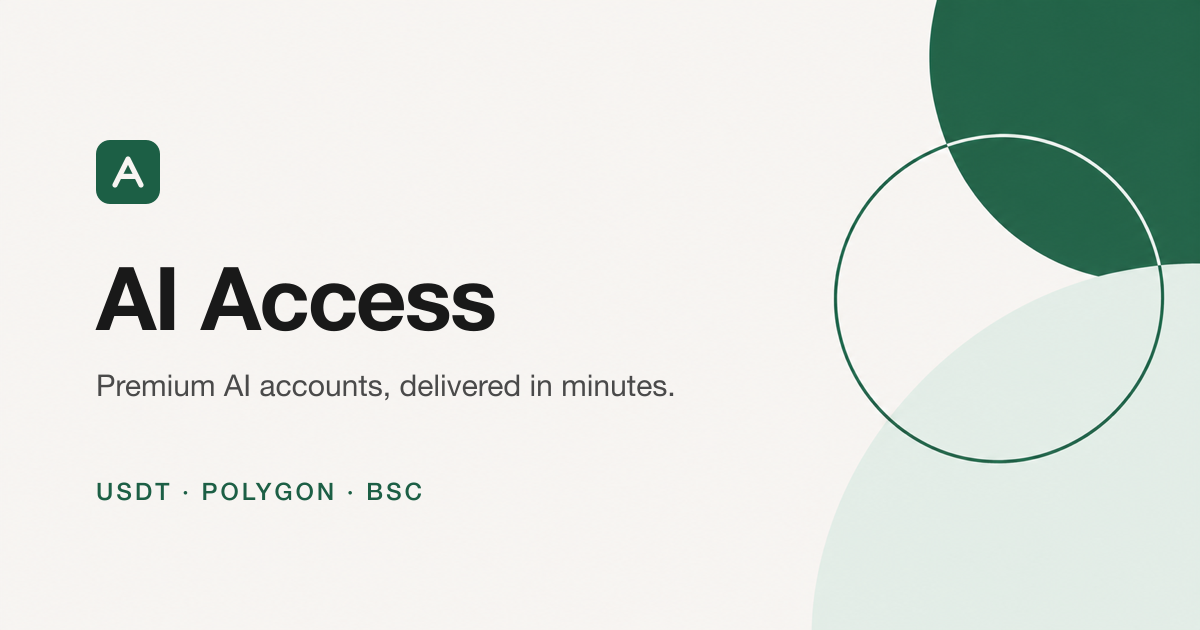
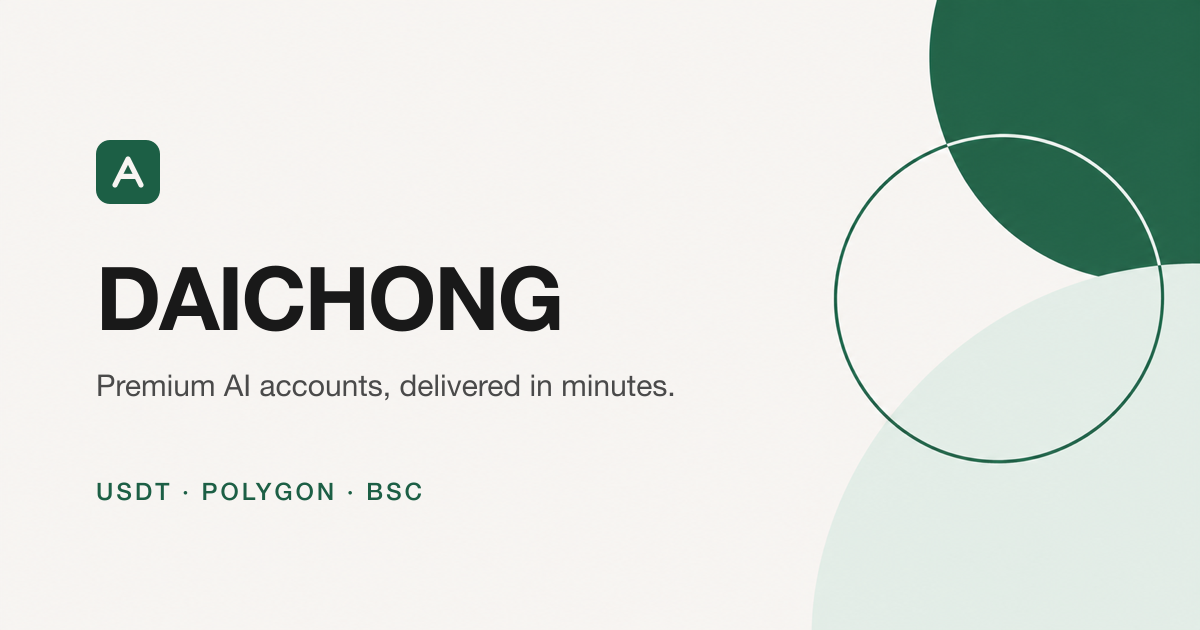
首页产品介绍区 + 品牌定案「代充」+ SEO 方案
- 首页：落地页新增 hero（标题/副题/三个卖点）+ 购买流程三步 + /help 入口，
  仅在无分类/搜索意图时渲染；首页补 WebSite + Organization 结构化数据
- 命名调研与定案：店名「代充」（品类词占位，用户方向），拉丁词标 DAICHONG；
  og-default/apple-touch-icon 按 DAICHONG 重排生成；docs/brand.md 记录
  候选对比、logo 几何与三处消费同步点
- docs/seo.md：技术项盘点（sitemap/robots/canonical/JSON-LD/OG）、
  关键词矩阵、内容策略、Search Console 待办与 noindex 红线

Changed region(s): [[0.0617, 0.4222, 0.4933, 0.5429]]

diff --git a/src/app/page.tsx b/src/app/page.tsx
@@ -138,6 +138,10 @@ export default async function Home({
       ]
     : undefined;
 
+  // 介绍区只在「干净的落地页」出现 —— 带分类/搜索意图的访客要的是货架，
+  // 不是品牌陈述；这也是给 SEO 首页留出独一无二的介绍性内容。
+  const showHero = !activeCategory && !search;
+
   const entries = await listCatalog(context, {
     ...(categoryFilter ? { categoryId: categoryFilter } : {}),
     ...(search ? { search } : {}),
@@ -164,6 +168,45 @@ export default async function Home({
       </div>
 
       <main className="mx-auto max-w-6xl px-4 py-8 sm:px-6 sm:py-10">
+        {showHero && (
+          <section className="mb-10 border-b border-[var(--line)] pb-9">
+            <p className="eyebrow">{config.store.name}</p>
+            <h2 className="mt-3 max-w-2xl text-[26px] font-semibold leading-[1.15] tracking-[-0.02em] sm:text-[34px]">
+              {t.home.heroTitle}
+            </h2>
+            <p className="mt-3 max-w-xl text-[14px] leading-relaxed text-[var(--text-muted)]">
+              {t.home.heroSub}
+            </p>
+            <ul className="mt-5 flex flex-wrap gap-x-6 gap-y-2">
+              {[t.home.heroPoint1, t.home.heroPoint2, t.home.heroPoint3].map((point) => (
+                <li key={point} className="flex items-center gap-2 text-[13px] text-[var(--text-muted)]">
+                  <span aria-hidden className="h-1.5 w-1.5 rounded-full bg-[var(--pop)]" />
+                  {point}
+                </li>
+              ))}
+            </ul>
+
+            <div className="mt-8 grid gap-6 sm:grid-cols-3">
+              {[
+                { n: "01", text: t.home.howStep1 },
+                { n: "02", text: t.home.howStep2 },
+                { n: "03", text: t.home.howStep3 },
+              ].map((step) => (
+                <div key={step.n} className="flex gap-3">
+                  <span className="numeric text-[13px] font-semibold text-[var(--pop)]">{step.n}</span>
+                  <p className="text-[13px] leading-relaxed text-[var(--text-muted)]">{step.text}</p>
+                </div>
+              ))}
+            </div>
+            <p className="mt-6 text-[13px]">
+              <span className="text-[var(--text-muted)]">{t.home.howTitle} · </span>
+              <Link href="/help" className="text-[var(--pop)] underline underline-offset-4">
+                {t.home.howCta}
+              </Link>
+            </p>
+          </section>
+        )}
+
         {!canSell && (
           <div className="mb-8 rounded-[var(--radius-card)] border border-[var(--warn)]/25 bg-[var(--warn-wash)] px-4 py-3 text-[13px] leading-relaxed text-[var(--warn)]">
             <strong className="font-semibold">{t.setup.demoMode}</strong>{" "}
@@ -214,6 +257,30 @@ export default async function Home({
           </div>
         </div>
       </main>
+
+      {showHero && (
+        <script
+          type="application/ld+json"
+          dangerouslySetInnerHTML={{
+            __html: JSON.stringify({
+              "@context": "https://schema.org",
+              "@graph": [
+                {
+                  "@type": "WebSite",
+                  name: config.store.name,
+                  url: config.store.baseUrl,
+                },
+                {
+                  "@type": "Organization",
+                  name: config.store.name,
+                  url: config.store.baseUrl,
+                  logo: config.store.baseUrl ? `${config.store.baseUrl}/icon.svg` : undefined,
+                },
+              ],
+            }),
+          }}
+        />
+      )}
 
       <StoreFooter
         storeName={config.store.name}

diff --git a/src/i18n/dictionary.ts b/src/i18n/dictionary.ts
@@ -27,6 +27,17 @@ export const en = {
       "The catalog syncs every 15 minutes. If it stays empty, check the health endpoint for the per-product reason.",
     noMatch: "No products match your search.",
     itemCount: (count: number) => `${count} ${count === 1 ? "item" : "items"}`,
+    heroTitle: "AI accounts & codes, delivered automatically",
+    heroSub:
+      "Sourced straight from the upstream and shipped the moment your payment confirms — pay in USDT on-chain, or by Alipay / WeChat transfer.",
+    heroPoint1: "Auto delivery — codes land on your order page",
+    heroPoint2: "USDT on Polygon & BSC, plus Alipay / WeChat",
+    heroPoint3: "Upstream-direct pricing, no middleman runaround",
+    howTitle: "How it works",
+    howStep1: "Pick a product and quantity, check out with your email.",
+    howStep2: "Pay with USDT (Polygon / BSC) or by Alipay / WeChat transfer.",
+    howStep3: "Your code appears on the order page; reserved items ship on restock.",
+    howCta: "Full guide",
   },
   product: {
     from: "from",
@@ -228,6 +239,17 @@ export const zh: Dict = {
       "商品目录每 15 分钟自动同步。若同步后仍为空，可在健康检查接口看到每个商品被下架的具体原因。",
     noMatch: "没有匹配的商品",
     itemCount: (count: number) => `${count} 件商品`,
+    heroTitle: "AI 账号与接码代充，付款即自动发货",
+    heroSub:
+      "上游直发、链上确认即到账 —— 支持 USDT（Polygon / BSC）与支付宝 / 微信转账。",
+    heroPoint1: "自动发货：卡密直接出现在订单页",
+    heroPoint2: "USDT 链上 + 支付宝 / 微信双通道",
+    heroPoint3: "上游直供，加价透明",
+    howTitle: "购买流程",
+    howStep1: "选好商品与数量，填邮箱下单。",
+    howStep2: "用 USDT（Polygon / BSC）或支付宝 / 微信转账付款。",
+    howStep3: "卡密出现在订单页；预订商品补货后自动发出。",
+    howCta: "完整帮助",
   },
   product: {
     from: "起",

diff --git a/scripts/generate-brand-assets.ts b/scripts/generate-brand-assets.ts
@@ -57,7 +57,7 @@ async function generateOgCard(): Promise<void> {
                     fill: #1C5F45; }
       </style>
       ${markSvg(96, 140, 64)}
-      <text class="wordmark" x="96" y="330">AI Access</text>
+      <text class="wordmark" x="96" y="330">DAICHONG</text>
       <text class="tagline" x="96" y="396">Premium AI accounts, delivered in minutes.</text>
       <text class="meta" x="96" y="500">USDT · POLYGON · BSC</text>
     </svg>`);

diff --git a/docs/brand.md b/docs/brand.md
@@ -1,0 +1,55 @@
+# 品牌手册：名字与 Logo
+
+> 2026-09-14 定案。本文是命名的调研记录与 logo 的使用规范，改品牌前先读一遍。
+
+## 一、名字：代充（DAICHONG）
+
+### 调研过程
+
+| 候选 | 判断 |
+| --- | --- |
+| **代充 / DAICHONG** ✅ | 用户指定的方向（"daichong 之类的"）；中文买家搜「XX代充」是**品类词**，站名与搜索词重合，SEO 天然占位；直白说明业务（代客充值） |
+| AI Access | 早期占位英文名。问题：与业务（代充）无关联、无中文记忆点、丢掉品类词流量 |
+| 充叮 / 叮充 | 造词可注册性更好，但需要教育市场——冷启动阶段品牌词没人搜，浪费最稀缺的品类词位 |
+| 充电堡 / 充值站 | 偏「游戏点卡」联想，与 AI 账号/接码的客群气质不符 |
+
+**结论**：店名 **代充**，拉丁词标 **DAICHONG**（og 卡/域名/大小写不敏感场景用）。
+
+### 用法
+
+- 店铺展示名（页头/页脚/元数据）：`代充` —— 在 `daichong.config.yaml` 的 `store.name`
+- 拉丁词标（og 卡、纯 ASCII 场景）：`DAICHONG`，全大写，字距正常
+- 一句话介绍（英）：AI accounts & codes, delivered automatically
+- 一句话介绍（中）：AI 账号与接码代充，付款即自动发货
+
+## 二、Logo：闸门 A（Gate A）
+
+### 几何
+
+32×32 viewBox，圆角矩形（rx=7）深绿底，其上两条描边构成一个**开口的 A 形闸门**：
+
+```
+┌──────────────┐
+│      /\      │   底：var(--pop)    #1C5F45（暗黑 #6FC79E）
+│     /  \     │   线：var(--bg)     #F7F5F2（暗黑 #121110）
+│    /    \    │   线宽 2.6，圆角端点
+│   ──────     │
+└──────────────┘
+```
+
+三处消费，改图形必须三处同步：
+
+1. `src/components/brand-mark.tsx` —— 页头内联（吃 currentColor/行高）
+2. `src/app/icon.svg` —— favicon
+3. `scripts/generate-brand-assets.ts` —— og 卡与 apple-touch-icon 的位图重绘
+
+### 语义
+
+A = AI；闸门 = 「通了」——付款即开闸发货。尖顶朝上只有一个方向，没有装饰性
+渐变与阴影，暗黑模式下底/线自动互换（token 驱动）。
+
+### 规则
+
+- 最小尺寸 18px（页头），小于 16px 环境直接省略文字只留 mark
+- 底色永远用 `--pop` token，不要写死十六进制 —— 暗黑模式靠它翻转
+- 与文字组合时：mark 高度 = 文字 cap height，间距 8px

diff --git a/docs/seo.md b/docs/seo.md
@@ -1,0 +1,45 @@
+# SEO 方案与现状
+
+> 目标：让「AI 账号代充」这类品类词搜索时，本站以商品页与帮助内容承接流量。
+> 本文记录已落地的技术项、内容策略与上线后待办。
+
+## 一、技术项（已落地）
+
+| 项 | 状态 |
+| --- | --- |
+| sitemap.xml | ✅ 动态生成：首页 + /help + 全部可售商品页；缺货/下架自动剔除 |
+| robots.txt | ✅ 屏蔽 /orders/ /lookup /account /api/（订单页含卡密，绝不可抓） |
+| canonical | ✅ 商品页显式 canonical（分享链接带参数不稀释权重） |
+| 结构化数据 | ✅ 商品页 Product/Offer（价格+库存+可售状态）；首页 WebSite + Organization |
+| Open Graph | ✅ og-default.png 品牌卡；商品页用商品封面做 og:image |
+| 元数据模板 | ✅ `%s · 代充`，全站标题统一品牌尾缀 |
+| 性能 | ✅ Workers 边缘渲染；图片 lazy loading；无大体积 JS 框架负担 |
+| 移动端 | ✅ 移动专用横滑分类导航，桌面侧栏树 |
+
+## 二、关键词与内容策略
+
+**核心词**（商品页/首页承接）：AI账号代充、ChatGPT代充、Claude代充、
+接码平台、GPT账号购买
+
+**长尾词**（/help 文章承接）：
+- 「XX代充 哪个靠谱」→ 帮助中心写选购指南与避坑说明
+- 「接码 多少钱」→ 商品页把价格与通过率写清楚（已有）
+- 「USDT 买东西怎么付」→ 支付指南文章（支付宝/微信/链上三通道说明）
+
+**内容原则**：
+1. 首页 hero 是唯一介绍区 —— 独特的、非模板的开头段落，别把 hero 复制到别的页
+2. 商品名保持上游原名（买家就是拿商品名来搜的），销售卖点放描述区
+3. /help 每篇回答一个真实搜索问题，不要为凑数生成无信息量文章
+
+## 三、上线后待办（需要账号，脚本做不了）
+
+1. **Google Search Console**：验证域名 → 提交 `https://<域名>/sitemap.xml`
+2. **Bing Webmaster**：同上（Bing 同时喂 Yahoo/DuckDuckGo）
+3. **body 文案**：商品 description 目前多为上游富文本，逐步改写为
+   「是什么/适合谁/到账时间/注意事项」的结构化段落
+4. **外链**：不放垃圾外链；真实渠道（社群、导航站）自然带流即可
+
+## 四、红线
+
+- 不要因为 SEO 在页面塞关键词堆砌 —— Dawn 的编辑风排版本身就是差异点
+- 订单页/卡密永远 noindex（robots 已挡），一旦被缓存就是资损事故
